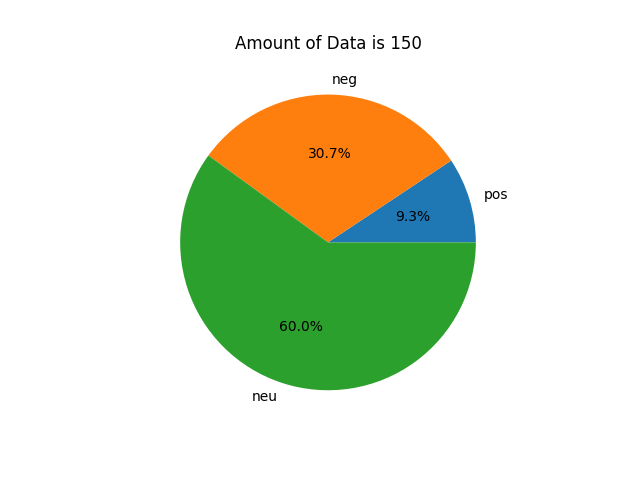
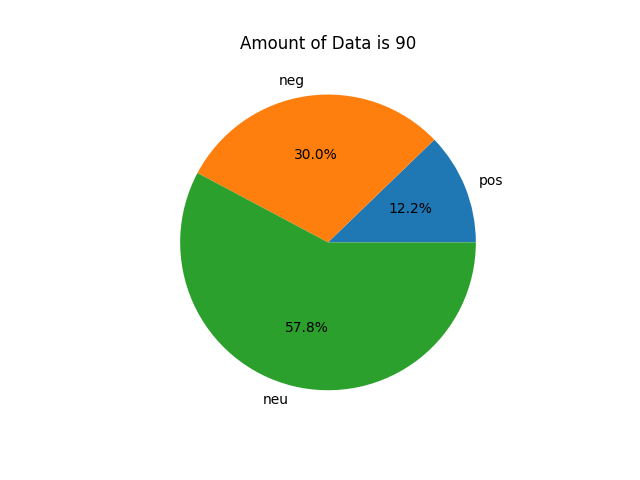
更新

diff --git a/src/serch_tweet.py b/src/serch_tweet.py
@@ -21,6 +21,7 @@ def get_tweets(serch_word, min_faves, num_tweet, savedir):
     text = []
     for tweet in tweets:
         t = tweet.full_text
+        # リンクがあるツイートを除外（ノイズになると思われるため）
         if 'https://' in t:
             continue
         text.append(t)
